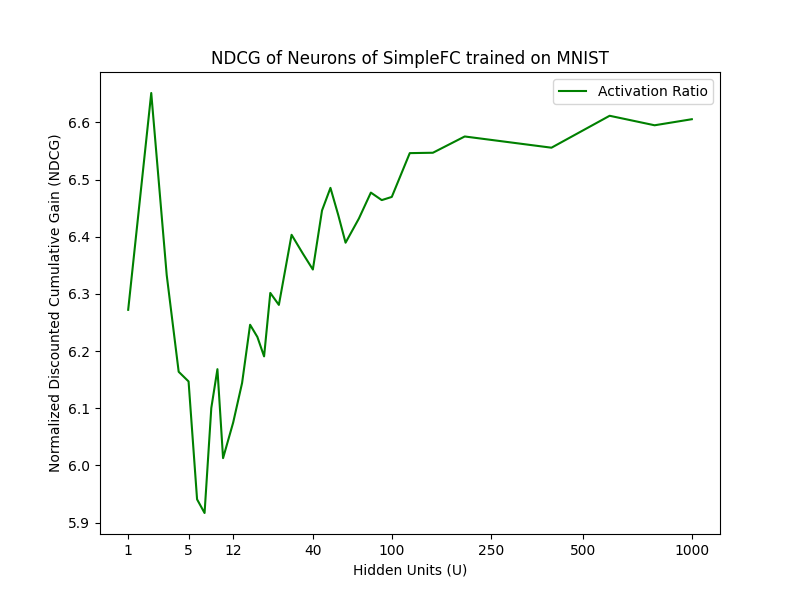
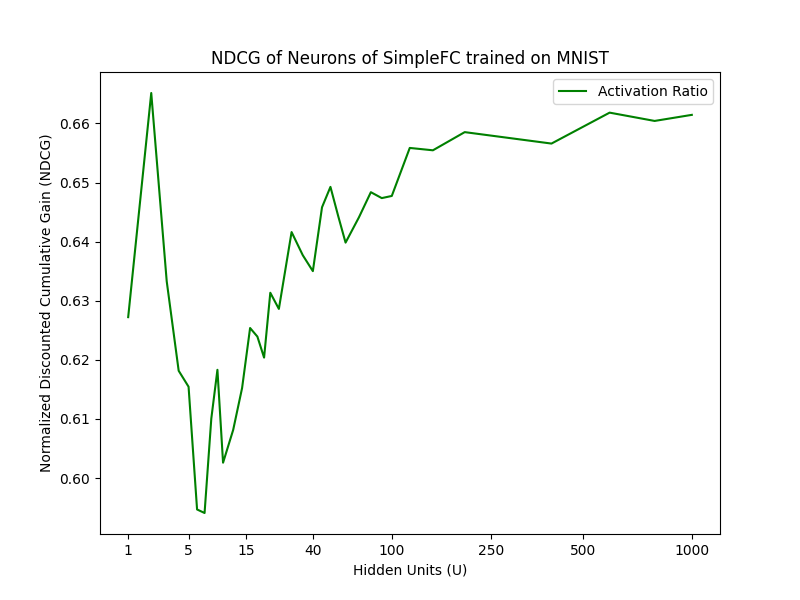
Re-run results on MNIST

diff --git a/test_rademacher.py b/test_rademacher.py
@@ -6,6 +6,7 @@ import os
 
 import models
 import data_src
+from plot import Plot
 
 
 def get_class_dataloader_mnist(dataset, batch_size):
@@ -44,32 +45,6 @@ def get_class_dataloader_cifar(dataset, batch_size):
         dataloader_list.append(dataloader)
 
     return dataloader_list
-
-
-def get_hf(dataset, model, dataloader):
-    # Obtain the hidden features
-    hidden_features = []
-
-    with torch.no_grad():
-        for idx, (inputs, labels) in enumerate(dataloader):
-            hidden_feature = model(inputs.to(torch.float32), path='half1')
-
-            for hf in hidden_feature:
-                hf = hf.cpu().detach().numpy()
-                hidden_features.append(hf)
-
-    # Define image_size and feature size by Dataset
-    if dataset == 'MNIST':
-        feature_size = model.n_hidden_units
-    elif dataset == 'CIFAR-10':
-        feature_size = model.n_hidden_units * 8
-    else:
-        raise NotImplementedError
-
-    # Reshape all numpy arrays
-    hidden_features = np.array(hidden_features).reshape(len(hidden_features), feature_size)
-
-    return hidden_features
 
 
 def get_class_dataloader_from_directory(args, directory):
@@ -112,10 +87,10 @@ def get_complexity(args, hidden_units, directory):
 
         complexity_list = []
         for c in range(10):
-            train_hidden_feature = get_hf(args.dataset, model, train_dataloader_list[c])
-            test_hidden_feature = get_hf(args.dataset, model, test_dataloader_list[c])
+            train_act_list = models.get_full_activation(model, test_dataloader_list[c])
+            test_act_list = models.get_full_activation(model, test_dataloader_list[c])
 
-            hidden_feature = np.concatenate((train_hidden_feature, test_hidden_feature))
+            hidden_feature = np.concatenate((train_act_list[1], test_act_list[1]))
 
             np.random.shuffle(hidden_feature)
             split_hidden_feature = np.array_split(hidden_feature, hidden_feature.shape[0] // 50)
@@ -130,23 +105,24 @@ def get_complexity(args, hidden_units, directory):
 
     print(n_complexity_list)
 
+    return n_complexity_list
+
+
+def plot_complexity(args, hidden_units, rademacher_complexity_list):
+    rademacher_complexity_list = np.mean(rademacher_complexity_list, axis=0)
+
     fig, ax = plt.subplots(figsize=(8, 4))
     plt.grid()
 
-    scale_function = (lambda x: x ** (1 / 4), lambda x: x ** 4)
+    plot_setting = Plot(args.model, args.dataset, hidden_units)
+    ax.set_xscale('function', functions=plot_setting.scale_function)
+    ax.set_xticks(plot_setting.x_ticks)
 
-    ax.plot(hidden_units, n_complexity_list)
+    ax.plot(hidden_units, rademacher_complexity_list, color='blue')
 
-    if args.dataset == 'MNIST':
-        ax.set_xscale('function', functions=scale_function)
+    plt.xlabel('Hidden Units (U)')
+    plt.ylabel('Estimated Rademacher Complexity')
+    plt.title(f'Rademacher Complexity estimate of class functions of {args.model} trained on {args.dataset}')
 
-        ax.set_xticks([1, 5, 15, 40, 100, 250, 500, 1000])
-    elif args.dataset == 'CIFAR-10':
-        ax.set_xticks([1, 10, 20, 30, 40, 50, 60, 64])
-    else:
-        raise NotImplementedError
-
-    plt.savefig(f"model_evaluation/evaluation_images/Rade-{args.dataset}-{args.model}-Epochs=%d-p=%d.png"
+    plt.savefig(f"evaluation_images/Rade-{args.dataset}-{args.model}-Epochs=%d-p=%d.png"
                 % (args.epochs, args.noise_ratio * 100))
-
-    return n_complexity_list

diff --git a/main.py b/main.py
@@ -83,6 +83,8 @@ if __name__ == '__main__':
 
     knn_5_accuracy_list = []
 
+    rademacher_complexity_list = []
+
     active_act_ratio_list, ndcg_list = [], []
 
     correlation_list_dict = {'Input-Hidden': [], 'Hidden': [], 'Hidden-Output': []}
@@ -162,6 +164,7 @@ if __name__ == '__main__':
         # Rademacher Complexity Estimation Test
         elif args.task == 'rade':
             n_complexity = test_rademacher.get_complexity(args, hidden_units, directory)
+            rademacher_complexity_list.append(n_complexity)
 
         # Activation Ratio Test
         elif args.task == 'activ':
@@ -171,11 +174,11 @@ if __name__ == '__main__':
             # active_act_ratio = test_sparsity.get_activation_ratio(args, test_dataloader, directory, hidden_units)
             # active_act_ratio_list.append(active_act_ratio)
 
-            # ndcg = test_sparsity.get_ndcg_neuron_specialization(args, test_dataloader, directory, hidden_units)
-            # ndcg_list.append(ndcg)
+            ndcg = test_sparsity.get_ndcg_neuron_specialization(args, test_dataloader, directory, hidden_units)
+            ndcg_list.append(ndcg)
 
-        # elif args.task == 'matrix':
-            correlation_dict = test_sparsity.get_activation_correlation(args, test_dataloader, directory, hidden_units)
+        elif args.task == 'matrix':
+            correlation_dict = test_sparsity.get_activation_correlation(args, directory, hidden_units)
             correlation_list_dict['Input-Hidden'].append(correlation_dict['Input-Hidden'])
             correlation_list_dict['Hidden-Output'].append(correlation_dict['Hidden-Output'])
             correlation_list_dict['Hidden'].append(correlation_dict['Hidden'])
@@ -187,11 +190,14 @@ if __name__ == '__main__':
         test_knn_interpolation.plot(args, hidden_units, parameters_list, train_accuracy_list, test_accuracy_list,
                                     train_losses_list, test_losses_list, knn_5_accuracy_list)
 
+    elif args.task == 'rade':
+        test_rademacher.plot_complexity(args, hidden_units, rademacher_complexity_list)
+
     elif args.task == 'activ':
         # test_sparsity.plot_activation_ratio(args, hidden_units, active_act_ratio_list)
-        # test_sparsity.plot_ndcg_value(args, hidden_units, ndcg_list)
+        test_sparsity.plot_ndcg_value(args, hidden_units, ndcg_list)
 
-    # elif args.task == 'matrix':
+    elif args.task == 'matrix':
         test_sparsity.plot_class_activation_similarities(args, correlation_list_dict, hidden_units)
 
     print('Program Ends!!!')

diff --git a/test_sparsity.py b/test_sparsity.py
@@ -66,11 +66,11 @@ def get_ndcg_neuron_specialization(args, dataloader, directory, hidden_units):
     ndcg_list = []
 
     uniform_counts = [1000 for _ in range(10)]
-    uniform_weights = rankdata(uniform_counts, method='min')
+    uniform_weights = rankdata(uniform_counts)
     uniform_dcg = sum([num * rank for num, rank in zip(uniform_counts, uniform_weights)]) / 10000
 
     specific_counts = [10000, 0, 0, 0, 0, 0, 0, 0, 0, 0]
-    specific_weights = rankdata(specific_counts, method='min')
+    specific_weights = rankdata(specific_counts)
     specific_dcg = sum([num * rank for num, rank in zip(specific_counts, specific_weights)]) / 10000
 
     for hidden_unit in tqdm(hidden_units, desc="Processing"):
@@ -94,7 +94,7 @@ def get_ndcg_neuron_specialization(args, dataloader, directory, hidden_units):
             cls, class_counts = np.unique(predicts[activated_indices], return_counts=True)
 
             # Apply a discounting factor (e.g., logarithmic discounting)
-            ranked_counts_weights = rankdata(class_counts, method='min')
+            ranked_counts_weights = rankdata(class_counts)
             # print(class_counts, np.sum(class_counts))
 
             # Compute Discounted Cumulative Gain (DCG)
@@ -103,7 +103,7 @@ def get_ndcg_neuron_specialization(args, dataloader, directory, hidden_units):
 
             # print(ranked_counts_weights, dcg)
 
-        ndcg_list.append(np.mean(ndcg))
+        ndcg_list.append(np.mean(ndcg) / specific_dcg)
 
     print(uniform_dcg, specific_dcg)
     print(ndcg_list)
@@ -204,7 +204,7 @@ def compute_correlation(matrices_list, similarity_measure):
     return similarities, average_except_diagonal
 
 
-def get_activation_correlation(args, test_dataloader, directory, hidden_units):
+def get_activation_correlation(args, directory, hidden_units):
     # Load a list of dataloaders of all classes
     train_dataloader_list, test_dataloader_list = get_class_dataloader_from_directory(args, directory)
     correlation_dict = {'Input-Hidden': [], 'Hidden': [], 'Hidden-Output': []}

diff --git a/plot.py b/plot.py
@@ -11,7 +11,7 @@ class Plot:
 
     def get_x_ticks(self):
         if self.model in ['SimpleFC', 'SimpleFC_2']:
-            xticks = [1, 5, 12, 40, 100, 250, 500, 1000]
+            xticks = [1, 5, 15, 40, 100, 250, 500, 1000]
         elif self.model in ['CNN', 'ResNet18']:
             xticks = [1, 8, 20, 40, 64]
         else:
